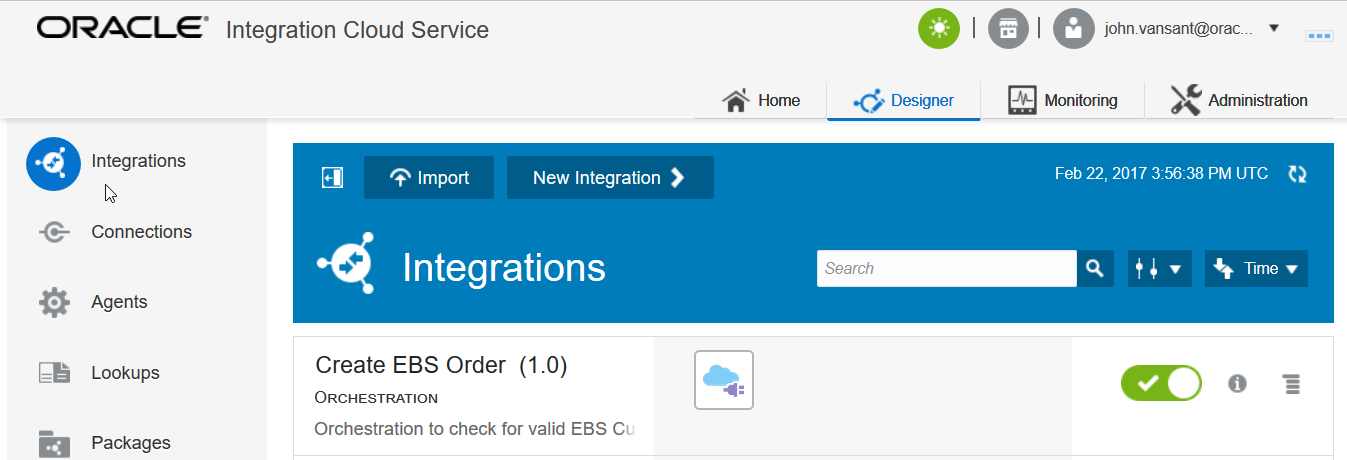
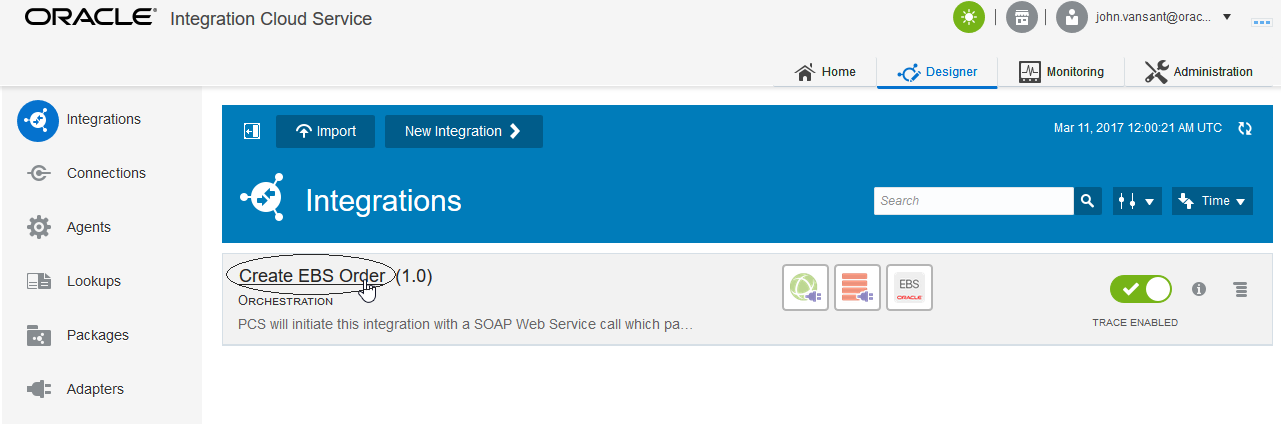
Added detail to "Explore ICS Integration" section

diff --git a/touch-the-cloud/TouchTheCloud300.md b/touch-the-cloud/TouchTheCloud300.md
@@ -118,6 +118,18 @@ The Cloud Dashboard is the launching pad for all the cloud services in your acco
 
 *(More information about the ICS Connectivity Agent will be given later)*
 
+- Click on the `New Connection` button so we can see all the different ICS Connectors that are available.
+
+   ![](images/300/image010b.png)
+
+- Scroll through the list of connection types that are available in ICS:
+
+   ![](images/300/image010c.png)
+
+- Note that the icons with the plug are those that support the ICS Connectivity Agent for those service types which are not in the cloud, but on-premise, behind the company firewall.
+
+- When you are done browsing, select the “Cancel” button to dismiss the “Select an Adapter” dialog.
+
 ### **STEP 3:**	Explore ICS Integrations
 
 ---
@@ -129,6 +141,106 @@ The Cloud Dashboard is the launching pad for all the cloud services in your acco
 - Make note of the integrations that have been created. We will be working with the integration called *Create EBS Order*.
 
     ![](images/300/image012.png)  
+
+- Open the integration “Create EBS Order” by clicking on the integration name.  We want to see what it looks like.  Since the integration is already active, we’ll be looking at it in “Viewing” mode.
+
+   ![](images/300/image012a.png)
+
+- You can see that this orchestration has many steps in it.  The view of the orchestration is *Zoom to Fit* in the browser real estate.  In order to get a closer view of the individual steps, you can either scroll with your mouse wheel to zoom in and out, or you can use the *-/+*” slider in the top right of the designer.
+
+- Try zooming in and out by using both methods.  
+
+- If you get zoomed-in too close and want to pan, you’ll be able to move around the orchestration using the Pan window by clicking on the dark area and moving around.
+
+   ![](images/300/image012b.png)
+
+- Selecting the Home icon (the little house) the drawing gets reset to a zoomed in view with the orchestration trigger at the very top.
+
+   ![](images/300/image012c.png)
+
+- Try selecting the “Maximize” viewing control on the very right of the view control bar.  This will hide some of the detail on top of the screen to give the designer the most area to work in.  Hitting the “Maximize” button again will toggle that view.
+
+   ![](images/300/image012d.png)
+
+- Let’s look at some of the components of the integration.  Select the `Home` view button again to reset the view.
+
+- The component at the very top of the orchestration is the `Trigger`.  The trigger is representative of the connector that’s sending data into the integration.
+
+- If you hover over the Trigger node, you can see the details.  Our trigger is a SOAP connector type.  It is called *CreateOrder* and it is using the connection named *Create Order* that we looked at before in the Connection section of the ICS Designer.
+
+   ![](images/300/image012e.png)
+
+- If you click on the Trigger, a pop-up will appear with a view icon.  Select the little eye on the view icon so we can walk through the wizard that was used to setup the SOAP trigger.
+
+  ![](images/300/image012f.png)
+
+- After the wizard initializes, you’ll be shown the basic information about the trigger – it’s name and description.
+
+   ![](images/300/image012g.png)
+
+- Select the `Next` button to see the `Operations` that were configured for this SOAP Trigger.  Details like the Port Type, Operation, and request and response objects are shown.  In our case, no special SOAP headers were needed so that was set to `No`.
+
+   ![](images/300/image012h.png)
+
+- Select `“Next` again to see the `Summary` of the Trigger’s configuration.  The SOAP WSDL was uploaded to ICS when the connection was first configured, not in the wizard to configure the Trigger.
+
+   ![](images/300/image012i.png)
+
+- Select the `Close` button to dismiss the Trigger view wizard.
+
+- Let’s view the next node down in the integration.  This is an *Assign* node.  The job of this Assign activity is to initialize variables that will be used in the calls to be made to the eBusiness Suite.
+
+   ![](images/300/image012j.png)
+
+- The variables defined in this Assign activity are greyed-out because we are only viewing them.  Later on in this lab, we’ll de-activate the integration and all the values will be changeable.
+
+   ![](images/300/image012k.png)
+
+- Select the `Exit Assignments` button in the upper-left to go back to the view of the orchestration.
+
+- Back in the view of the orchestration we want to explore some of the nodes toward the bottom.  You can pan directly in the design window by clicking & holding the mouse button down in the background of the design palette, then you can pan up and down.
+
+   ![](images/300/image012l.png)
+
+- Pan down to the map called `createEBSOrder`.  Click on this map activity and select the view icon.  We are going to see the values that are mapped into EBS.
+
+   ![](images/300/image012m.png)
+
+- This is the most complex mapping in this integration because the EBS API we’re leveraging has thousands of attributes that can be passed.
+
+- What you’ll see in the mapper is the possible input variables on the left and the EBS inbound variables that can be mapped to on the right.  The values that have been mapped are shown to the right of the EBS inbound variables in the mapper.
+
+- In order to simplify this view, we want to `Filter` the Target variables.  Select the `Filter` button above the Target section and then select the radio button labeled `Mapped`, then select the `Apply` button.
+
+   ![](images/300/image012n.png)
+
+- Now we only see variables in the Target that have been mapped from a Source variable.  If you want to get a visual depiction of where a Target variable has been mapped from, select the little green checkbox to the very left of the Target variable.  This will make a line visible from the Source variable to the Target.
+
+   ![](images/300/image012o.png)
+
+- Note that the icon next to the `P_LINE_TBL_ITEM` has a double bar on top of it.  This indicates that it is a variable that can have multiple values in it (an array).  The ICS mapper automatically adds the `for-each(Lines)` function to that mapping so all possible order lines passed in from the Source will be mapped to the EBS adapter’s invocation.
+
+- Once you are done exploring this complex ICS map, select the `Exit Mapper` button in the upper-left to return back to the ICS orchestration.
+
+- One last orchestration node we want to explore is one of the *Database Adapter* invocations.  Click on the database adapter call just above the `createEBSOrder` which is called `getCustomerShipToInfo`.   When you click on the little eye icon to view it, the DB Connector wizard will initialize.
+
+  ![](images/300/image012p.png)
+
+- Along with the basic information about this invoke activity like the name and description, you can see that this connection is being used to execute a SQL query on the EBS database from ICS.
+
+  ![](images/300/image012q.png)
+
+- The SQL query being run can be examined.  This query is joining together 6 tables to provide the shipping information needed to create the EBS order for the customer.
+
+  ![](images/300/image012r.png)
+
+- Select the `Close` button now that we have seen the SQL used in the Database Adapter invocation to the EBS Oracle Database.
+
+- Note that ICS also has Database adapters for *MySQL*, *DB2*, and *SQL Server*.
+
+- We’ve spent a lot of time exploring the `Create EBS Order` integration.  Let’s move on and explore the Agent setup.  Select the `Exit Integration` button in the upper-left to navigate back to the ICS Designer.
+
+  ![](images/300/image012s.png)
 
 ### **STEP 4:** Explore ICS Agents
 
